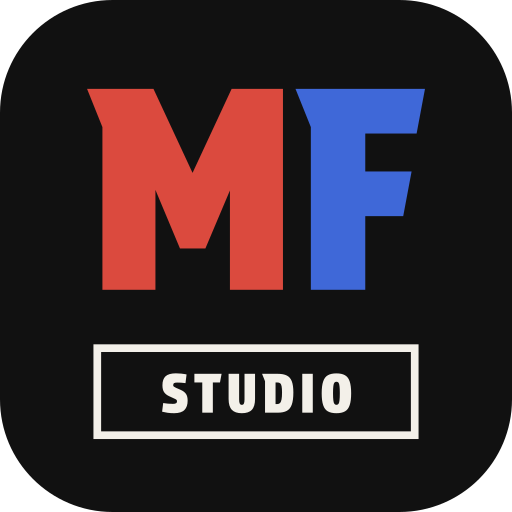
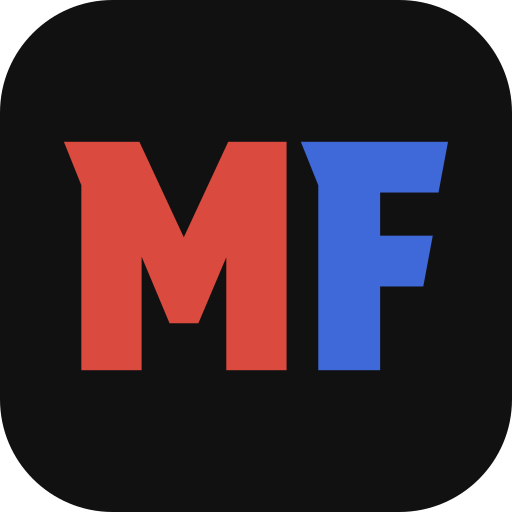
fix(brand): browser tab shows the plain MF; the installed app keeps the MF STUDIO tile
Noe, 26 Nov 2026 (evening): the tab icon goes back to the plain MF tile; the
MF STUDIO tile stays on the installed app, the Android manifest icons and the
iOS touch icon. This undoes the tab-icon part of #135.

app/favicon.ico (16, 32, 48 px) and app/icon.png (512 px) are drawn from
brand/app-icon-mf-plain.svg again by scripts/generate-brand-icons.mjs and are
byte-identical to the files main had before #135. The layout lists
/icon.png?v=4: that address has no content hash and browsers hold the STUDIO
tile under ?v=3. Nothing under public/, app/manifest.ts or the service worker
changes, so no installed-app address or cache entry moves.

The unit test now requires the tab icons to match the plain drawing and not
the STUDIO one, and a new test requires the manifest icons and the touch icon
to match the STUDIO drawings. The browser journey requires /icon.png to differ
from the installed-app tile.

Changed region(s): [[0.125, 0.1562, 0.875, 0.875]]

diff --git a/tests/unit/brand-default-icons.test.ts b/tests/unit/brand-default-icons.test.ts
@@ -73,18 +73,19 @@ describe("icon set", () => {
     // The only tab icon the layout lists is app/icon.png. Next adds it by
     // itself only when a layout sets no icons at all. Its address has no
     // content hash, so it carries a version: without one a browser that kept
-    // the earlier plain MF tile would never ask for the new file.
+    // an earlier tab tile would never ask for the new file.
     const listed = [...icons.matchAll(/url: "([^"]+)"/g)].map((m) => m[1]);
-    expect(listed).toEqual(["/icon.png?v=3"]);
+    expect(listed).toEqual(["/icon.png?v=4"]);
     expect(icons).not.toContain("/icons/");
   });
 
-  it("the tab icons are the approved MF STUDIO tile at 16, 32, 48 and 512 px, not the plain MF", async () => {
-    // Noe, 26 Nov 2026: the browser tab shows the MF tile with the boxed
-    // STUDIO at every size. Each committed tab icon is compared, pixel by
-    // pixel, with brand/app-icon-mf-studio.svg drawn at that size the way
+  it("the tab icons are the plain MF tile at 16, 32, 48 and 512 px, not the MF STUDIO tile", async () => {
+    // Noe, 26 Nov 2026 (evening): the browser tab shows the plain MF; the MF
+    // STUDIO tile is for the installed app and the phone home screen. Each
+    // committed tab icon is compared, pixel by pixel, with
+    // brand/app-icon-mf-plain.svg drawn at that size the way
     // scripts/generate-brand-icons.mjs draws it, and must be nearer to it than
-    // to the plain MF tile. Pixels, not bytes: PNG compression may differ
+    // to the STUDIO tile. Pixels, not bytes: PNG compression may differ
     // between machines, the picture may not.
     const draw = (name: string, size: number) =>
       sharp(readFileSync(resolve(ROOT, "brand", name)), { density: Math.ceil((72 * size) / 200) * 2 })
@@ -111,10 +112,35 @@ describe("icon set", () => {
     for (const { size, data } of tabIcons) {
       const got = await pixels(data);
       expect([got.info.width, got.info.height], `${size} px`).toEqual([size, size]);
-      const toStudio = distance(got.data, await draw("app-icon-mf-studio.svg", size));
       const toPlain = distance(got.data, await draw("app-icon-mf-plain.svg", size));
-      expect(toStudio, `${size} px is the STUDIO tile`).toBeLessThan(0.5);
-      expect(toPlain, `${size} px is not the plain MF tile`).toBeGreaterThan(toStudio + 1);
+      const toStudio = distance(got.data, await draw("app-icon-mf-studio.svg", size));
+      expect(toPlain, `${size} px is the plain MF tile`).toBeLessThan(0.5);
+      expect(toStudio, `${size} px is not the STUDIO tile`).toBeGreaterThan(toPlain + 1);
+    }
+  });
+
+  it("the installed app and the phone home screen use the MF STUDIO tile", async () => {
+    // The manifest's regular icons and the iOS touch icon, compared pixel by
+    // pixel with the STUDIO drawings they are generated from (rounded for the
+    // manifest, square for iOS, which rounds the corners itself).
+    const draw = (name: string, size: number) =>
+      sharp(readFileSync(resolve(ROOT, "brand", name)), { density: Math.ceil((72 * size) / 200) * 2 })
+        .resize(size, size).ensureAlpha().raw().toBuffer();
+    const distance = (a: Buffer, b: Buffer) => {
+      expect(a.length).toBe(b.length);
+      let sum = 0;
+      for (let i = 0; i < a.length; i += 1) sum += Math.abs(a[i] - b[i]);
+      return sum / a.length;
+    };
+    const cases: [string, string, number][] = [
+      ["public/icons/icon-192.png", "app-icon-mf-studio.svg", 192],
+      ["public/icons/icon-512.png", "app-icon-mf-studio.svg", 512],
+      ["public/apple-touch-icon.png", "app-icon-mf-studio-square.svg", 180],
+    ];
+    for (const [file, drawing, size] of cases) {
+      const got = await sharp(readFileSync(resolve(ROOT, file))).ensureAlpha().raw().toBuffer();
+      expect(distance(got, await draw(drawing, size)), `${file} is the STUDIO tile`).toBeLessThan(0.5);
+      expect(distance(got, await draw("app-icon-mf-plain.svg", size)), `${file} is not the plain MF`).toBeGreaterThan(1);
     }
   });
 

diff --git a/app/layout.tsx b/app/layout.tsx
@@ -30,15 +30,17 @@ export const metadata: Metadata = {
     statusBarStyle: "black-translucent",
     title: "MatFlow",
   },
-  // The browser tab icon is the MF STUDIO tile: app/favicon.ico (linked by
+  // The browser tab icon is the plain MF tile: app/favicon.ico (linked by
   // Next on its own, with the file's hash in its address) and app/icon.png,
   // which has to be listed here because Next only adds it by itself when a
-  // layout sets no icons at all. /icon.png has no hash, so "?v=3" is what
-  // makes a browser that kept the old plain MF tile ask again; raise it when
-  // the artwork changes. The installed-app icons are in app/manifest.ts,
-  // which also explains "?v=2".
+  // layout sets no icons at all. /icon.png has no hash, so "?v=4" is what
+  // makes a browser that kept an earlier tab tile ask again; raise it (here,
+  // in tests/unit/brand-default-icons.test.ts and in the brand-default-icons
+  // journey) when the artwork changes. The installed app and the iOS home
+  // screen use the MF STUDIO tile: app/manifest.ts, which also explains
+  // "?v=2", and the touch icon below.
   icons: {
-    icon: [{ url: "/icon.png?v=3", type: "image/png", sizes: "512x512" }],
+    icon: [{ url: "/icon.png?v=4", type: "image/png", sizes: "512x512" }],
     apple: "/apple-touch-icon.png?v=2",
   },
 };

diff --git a/brand/MATFLOW-STUDIO-LOGO-GUIDE.md b/brand/MATFLOW-STUDIO-LOGO-GUIDE.md
@@ -33,7 +33,7 @@ Do not use "MF Studio" as a written name.
 | `matflow-short-small-on-dark.svg`, `matflow-short-small-on-light.svg` | Short logo with a plain bar (no stripes), for small sizes |
 | `app-icon-mf-studio.svg` | App icon: MF with the STUDIO patch, rounded corners |
 | `app-icon-mf-studio-square.svg` | Same icon with square corners, for app stores that round it themselves |
-| `app-icon-mf-plain.svg`, `favicon.svg` | Plain MF for small sizes. MatFlow's own browser tab uses the STUDIO tile |
+| `app-icon-mf-plain.svg`, `favicon.svg` | Plain MF for small sizes and browser tabs |
 | `png/` | PNG exports of the above, including `app-icon-1024.png`, `apple-touch-icon-180.png`, `favicon-32.png` |
 | `preview.png` | Brand sheet showing everything together |
 
@@ -48,7 +48,7 @@ All SVGs have transparent backgrounds except the app icons, which include their 
 | 90 to 139 px | Short logo, small version (plain bar) |
 | Below 90 px, or square spaces | MF icon |
 
-App icon: use the STUDIO patch version wherever it is shown at 72 px or more, and the plain MF tile only in places too small for that. STUDIO is about 7.7% of the tile's height, so below 72 px it can't be read. The one exception is MatFlow's own browser tab, which uses the STUDIO tile at 16, 32, 48 and 512 px so the tab matches the app icon, accepting that the word can't be read there. MatFlow's own mark in the product (`components/brand/StudioMark.tsx`) is the STUDIO tile at 72 px, and 96 px on the sign-in screen.
+App icon: use the STUDIO patch version wherever it is shown at 72 px or more, and the plain MF tile only in browser tabs and other places too small for that. STUDIO is about 7.7% of the tile's height, so below 72 px it can't be read. MatFlow's own mark in the product (`components/brand/StudioMark.tsx`) is the STUDIO tile at 72 px, and 96 px on the sign-in screen.
 
 ## Colours
 
